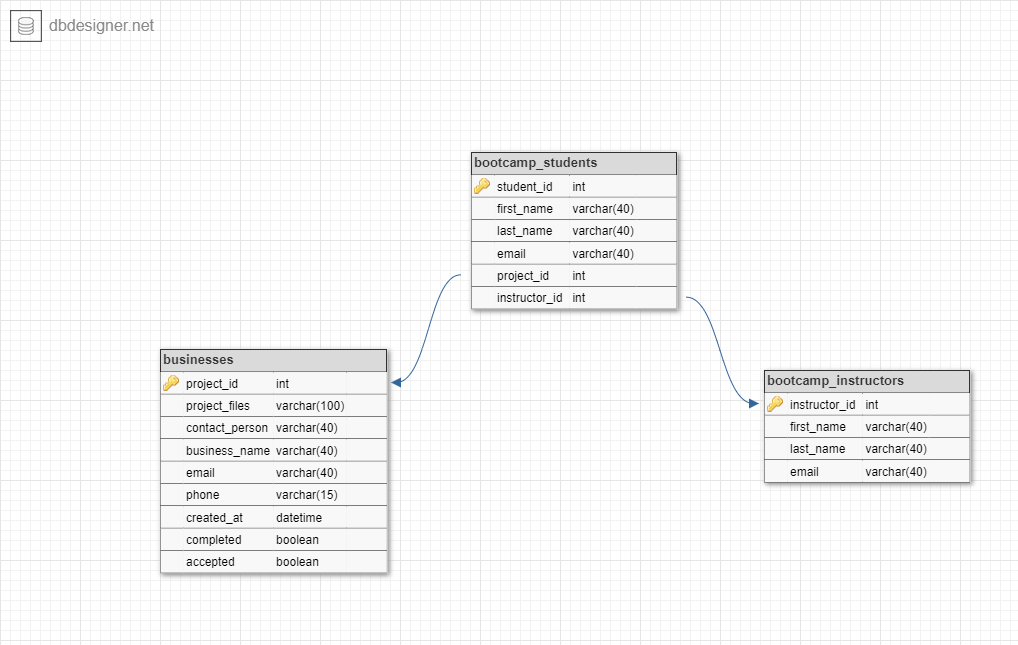
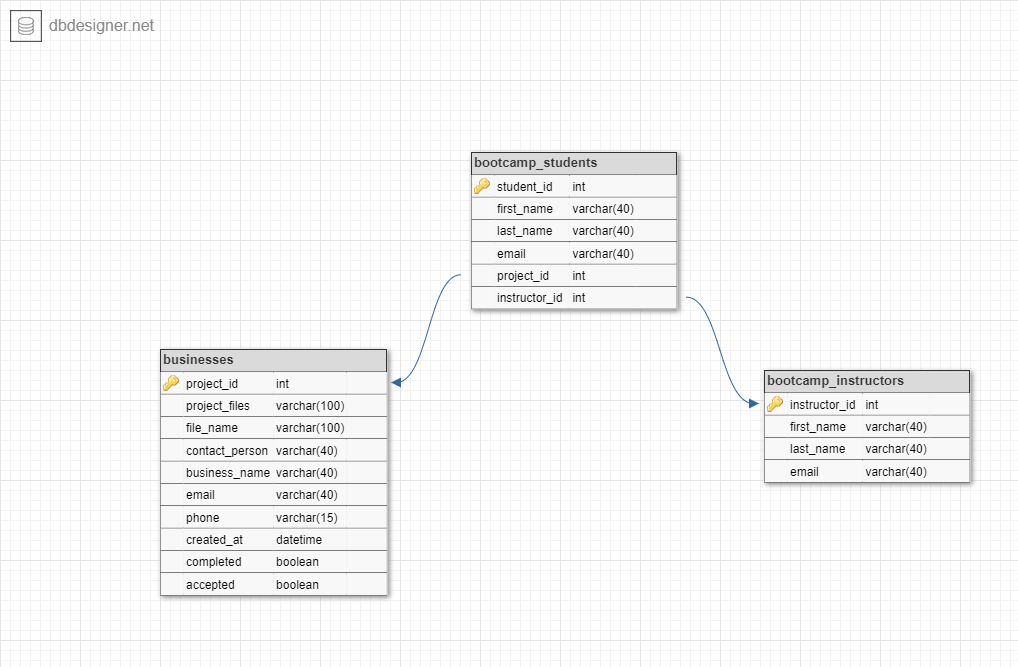
added field for file_name in the table so that it can be displayed after upload. updated schema and db init file to reflect this. made relevant changes to frontend

diff --git a/routes/projects.js b/routes/projects.js
@@ -65,7 +65,7 @@ router.post("/", upload.single("project_files"), async (req, res, next) => {
 	// info about the file uploaded is in req.file, which multer makes available to us.
 	console.log(req.file, req.body);
 
-	const { path } = req.file;
+	const { filename, path } = req.file;
 	// windows file paths  use only backslash, but the forward slash is needed to make the file url accessible. this regular expression will find all back slashes and replace with forward slash in path.
 	// { path: 'public\\files\\1652116880729-testing.png' } { correctedPath: 'public/files/1652116880729-testing.png' }
 	const correctedPath = path.replace(/\\/g, "/");
@@ -74,7 +74,7 @@ router.post("/", upload.single("project_files"), async (req, res, next) => {
 	const { contact_person, business_name, email, phone } = req.body;
 
 	// created_at, completed, accepted will have default values when project is created.
-	const sql = `INSERT INTO projects (project_files, contact_person,	business_name,email,phone,created_at,completed,	accepted) VALUES ("${correctedPath}", "${contact_person}", "${business_name}","${email}","${phone}",now(),0,	0);`;
+	const sql = `INSERT INTO projects (project_files, file_name, contact_person,	business_name,email,phone,created_at,completed,	accepted) VALUES ("${correctedPath}","${filename}", "${contact_person}", "${business_name}","${email}","${phone}",now(),0,	0);`;
 
 	try {
 		// initially, results is what's returned from the post request.

diff --git a/client/src/App.js b/client/src/App.js
@@ -3,6 +3,7 @@ import React, { useState, useEffect } from "react";
 function App() {
 	const [formData, setFormData] = useState({
 		project_files: null,
+		file_name: "",
 		contact_person: "",
 		business_name: "",
 		email: "",
@@ -43,7 +44,11 @@ function App() {
 		// 	document.getElementById("project_files").files[0]
 		// );
 		console.log(event.target.files[0]);
-		setFormData({ ...formData, project_files: event.target.files[0] });
+		setFormData({
+			...formData,
+			project_files: event.target.files[0],
+			file_name: event.target.files[0].name,
+		});
 	};
 
 	const handleSubmit = (event) => {
@@ -52,6 +57,7 @@ function App() {
 		let project = new FormData();
 		// add key value pairs to formdata obj. the values are taken from state. both .set and .append work. .set will overwrite an existing key's value, while append will simply add on to the end
 		project.set("project_files", formData.project_files);
+		project.set("file_name", formData.file_name);
 		project.set("contact_person", formData.contact_person);
 		project.set("business_name", formData.business_name);
 		project.set("email", formData.email);
@@ -161,7 +167,7 @@ function App() {
 						</h5>
 						<div className="font-normal text-gray-700 dark:text-gray-400">
 							<a href={`http://localhost:5000/${project.project_files}`}>
-								{project.project_files}
+								{project.file_name}
 							</a>
 						</div>
 					</div>
